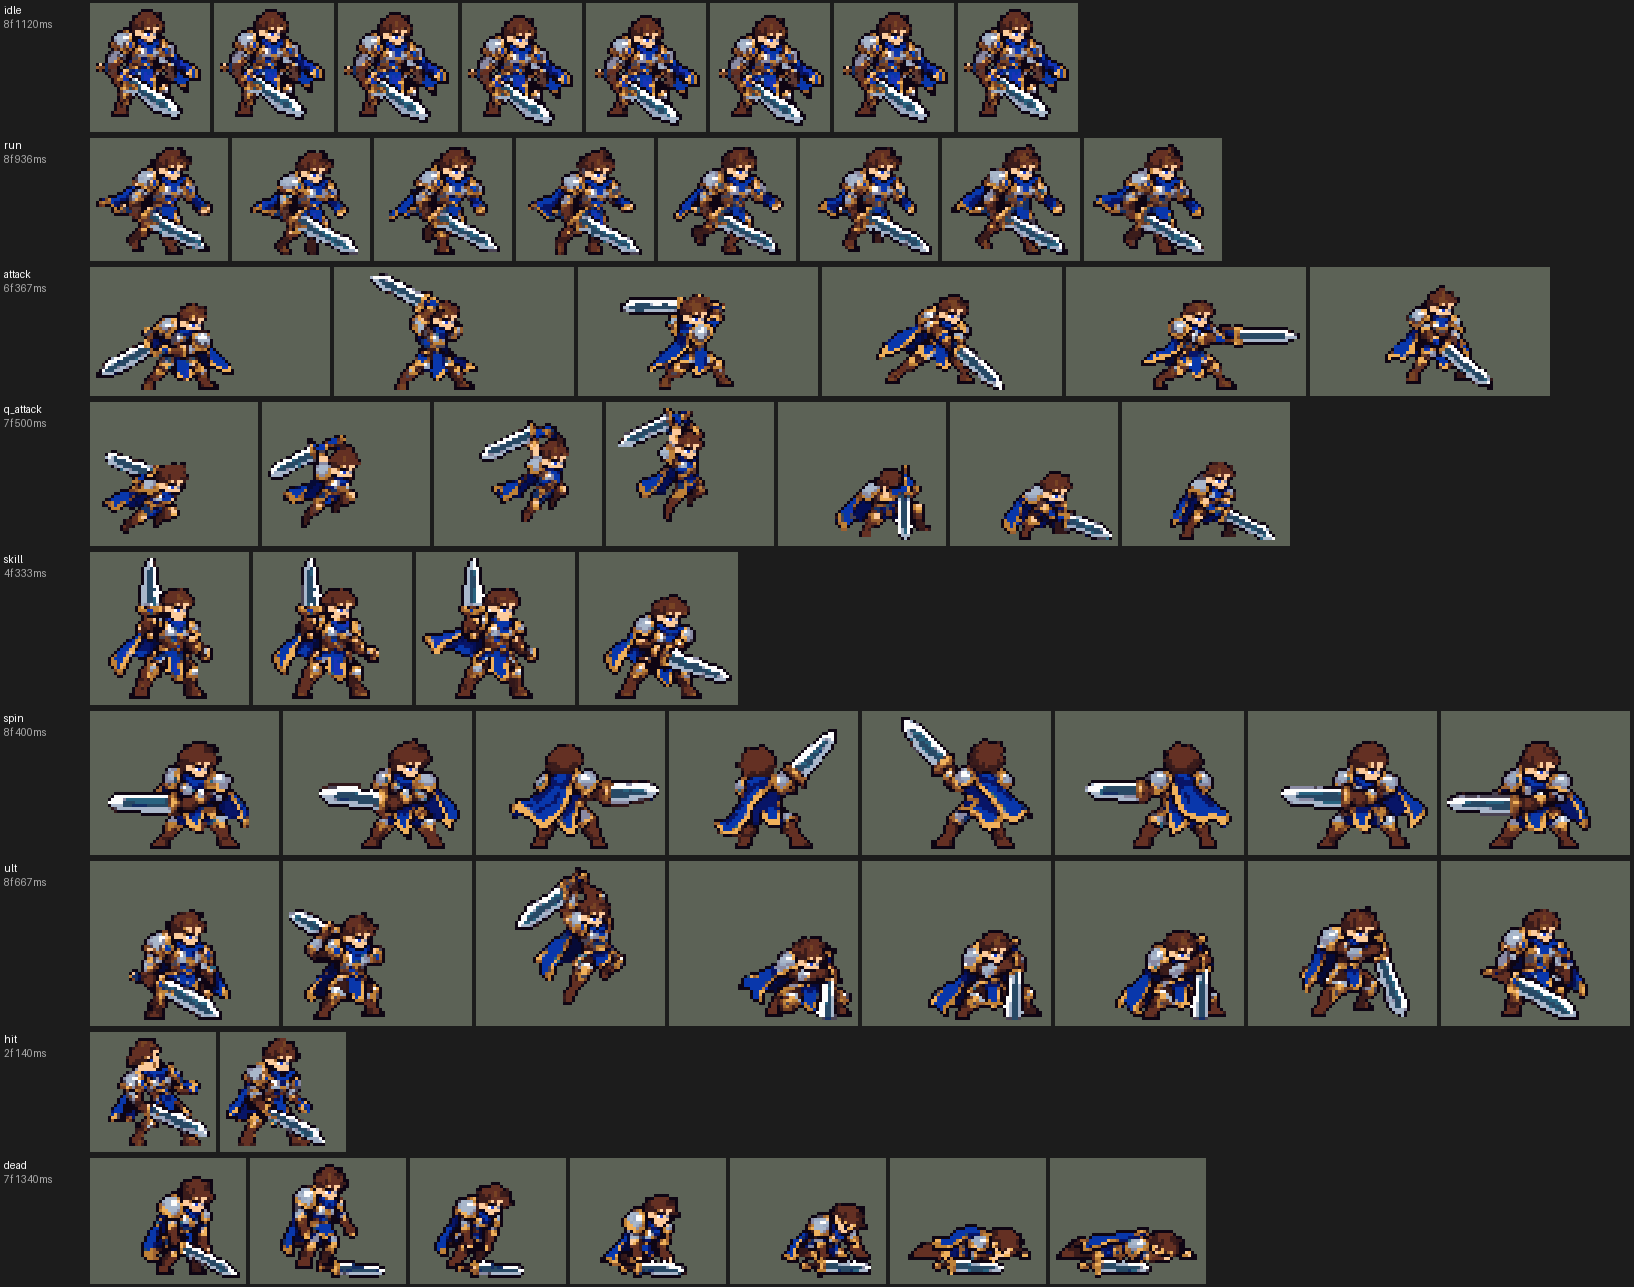
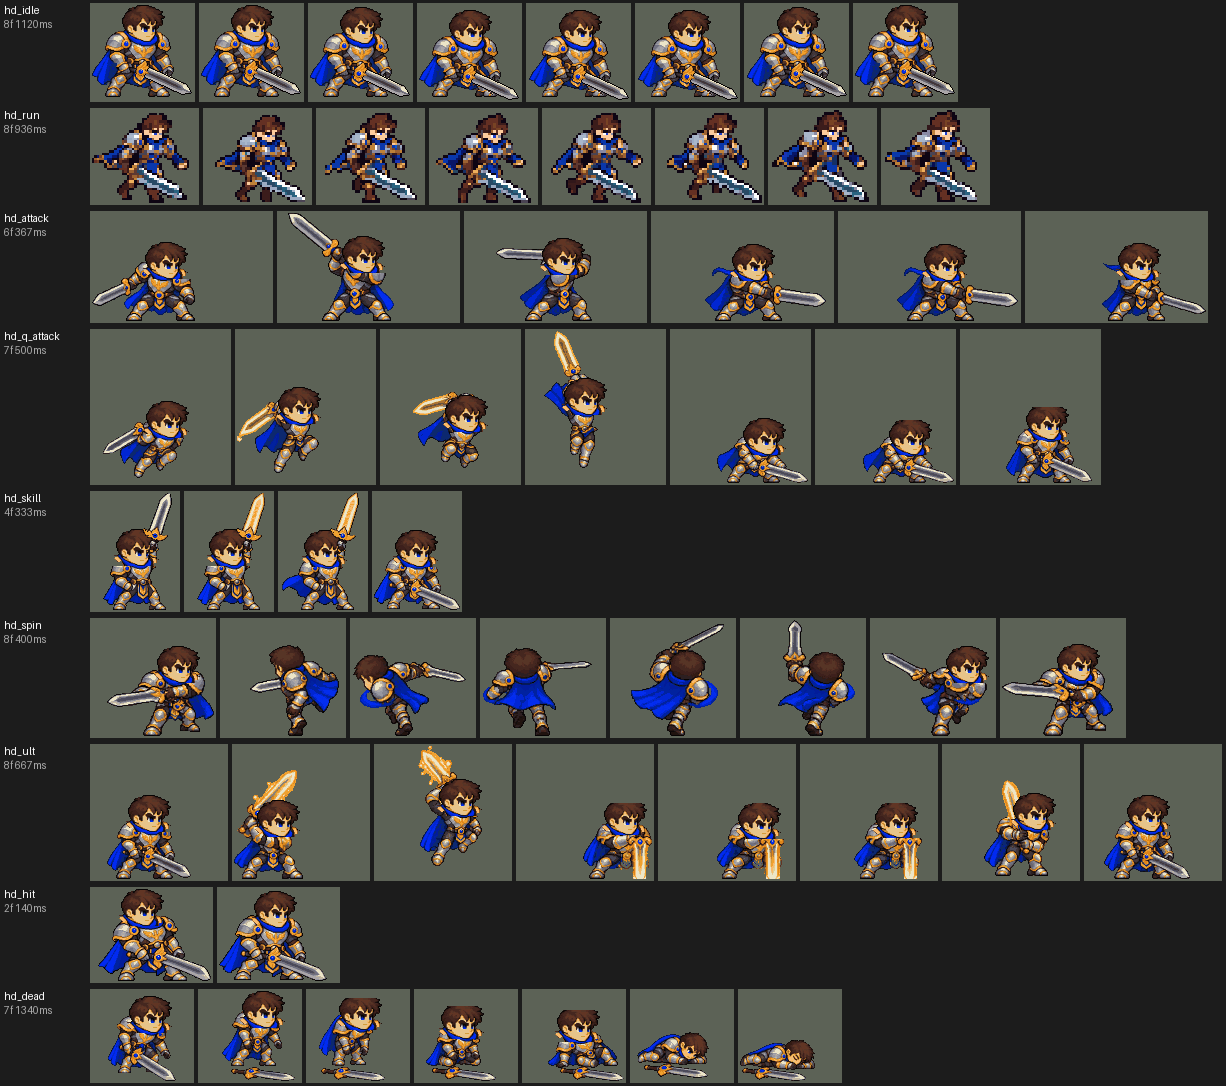
Garen's actions at PPU 2.5 from his original pictures, the idle's face in every frame (the user: 「盖伦游戏里还是老模型 ... 你参考亚索那些怎么弄的啊」; picked the idle's face everywhere, the slashes and bursts out with the gold blade kept, the run from the idle)
tools/art/ppu_garen.py --actions: attack, q_attack, skill, spin, ult, hit and dead read from assets/source/garen's pictures one to a frame, each strip at its own scale (the median of 2.5 x the 1x frame's height over the picture's), the idle's palette, sparkles and glints dropped, the feet (the lowest rows of what is not blade) where the 1x frame's are - the soles within 0.1 px of the 1x frames'. The idle's head (hair, face, eyes, not the scarf) pasted where each picture's face is (import_ppu_strips.paste_head searched round its skin), not on the spin seen from behind (frames 2-6) or the death lying down (6-7). The slash's arc across attack picture 4 and the burst over q_attack picture 5's legs leave nothing to keep - those frames take the next picture; ult 4-6's ground burst round the planted blade is cleared; the skill's raised blade, guard and fist go back over the pasted head (held beside it). Frames grown alike at both ends where the figure needs it (garen_<tag>.json). The run is still the 1x run scaled (next: from the idle). preview_garen.py draws him from his dense frames (preview_dense; Anim takes frames), the showcase and frame sheet regenerated.

Checks: ppu_hd --check garen clean, cargo test 7/7.

diff --git a/tools/art/ppu_garen.py b/tools/art/ppu_garen.py
@@ -3,6 +3,7 @@
 
     python tools/art/ppu_garen.py                  # write assets/source/ppu/garen_<tag>.png (+ .json sizes)
     python tools/art/ppu_garen.py --review DIR     # garen_hd_<tag>.png (8x) and garen_hd_<tag>.gif
+    python tools/art/ppu_garen.py --actions        # the actions too (attack, q_attack, skill, spin, ult, hit, dead)
 
 The user, 2026-10-12: 「这个分支用来重建老英雄的 用PPU重建 先是盖伦 但是所有模型图生成就不拜托codex了 我们自己处理 因为也有原稿
 对比了」, then 「按原稿走 密度2.5」. The originals are the GPT strips in assets/source/garen (garen_<tag>.png, round 3/4,
@@ -12,6 +13,17 @@ The 1x sheet (Codex's step-2 redraw) is a different drawing; only its frame size
 an hd frame is round(2.5 x its 1x frame) round the same centre, the soles on the 1x soles' row. --write puts the idle
 in (its 1x frames into the sheet, replacing the Codex idle: import_native.py --hero garen would bring that back - run
 this again after it); the actions not redrawn yet are the 1x frames scaled (ppu_hd.py).
+
+actions (the user, 2026-10-12: 「盖伦游戏里还是老模型 ... 你参考亚索那些怎么弄的啊」, then the idle's face in every
+frame, the slashes and bursts out, the glowing gold blade kept): each strip's pictures one to a frame, read at the
+strip's own scale (the median of 2.5 x the 1x frame's height over the picture's: every strip was drawn at its own size),
+the palette of the idle, its sparkles and glints (parts under 2% of the figure) dropped, the feet - the lowest rows of
+what is not blade - where the 1x frame's feet are; then the idle's head (hair, face, eyes; not the scarf) pasted where
+the picture's face is (import_ppu_strips.paste_head searched round its skin), except where no face shows (the spin
+seen from behind, the death lying down). The slash's white arc across attack picture 4 and the burst over q_attack
+picture 5's legs leave nothing to keep, so those frames take the next picture; ult pictures 4-6's ground burst round
+the planted blade is cleared (the blade kept); the skill's raised blade, guard and fist go back over the pasted head
+(held beside it). The run is the 1x run scaled until it is made from the idle.
 
 idle: the first picture of garen_idle.png is the design; the loop is that design breathing (tools/art/idle_breathe.py,
 the 1x recipe: the body above the shins down 0-2 rows and a column forward, the head a frame late), the sword lifted out
@@ -170,6 +182,213 @@ def design():
     return out, pal
 
 
+COUNTS = {"attack": 6, "q_attack": 7, "skill": 4, "spin": 8, "ult": 8, "hit": 2, "dead": 7}
+# frame -> the picture it takes instead of its own (0-based): the slash's white arc across attack picture 4's legs and
+# the burst over q_attack picture 5's legs leave nothing to keep - the next picture's pose
+SAME = {"attack": {3: 4}, "q_attack": {4: 5}}
+# the ground burst round the planted blade in ult pictures 4-6: a box (picture px from the frame's top-left) whose
+# glow goes, the blade's columns spared
+BURST = {"ult": {i: {"box": (100, 143, 216, 196), "blade": (133, 167)} for i in (3, 4, 5)}}
+# frames without the idle's head (0-based): the spin seen from behind, the death lying down
+NO_HEAD = {"spin": {1, 2, 3, 4, 5}, "dead": {5, 6}}
+# frames whose raised blade is held beside the head (its fist and guard in front of it): back over the pasted head
+FRONT = {"skill": {0, 1, 2}}
+
+
+def lum(a):
+    return 0.299 * a[..., 0] + 0.587 * a[..., 1] + 0.114 * a[..., 2]
+
+
+def steel(a):
+    """The blade's light greys and whites (a glowing blade's pale gold too)."""
+    r, g, b = (a[..., c].astype(int) for c in range(3))
+    sat = np.maximum(np.maximum(r, g), b) - np.minimum(np.minimum(r, g), b)
+    return (a[..., 3] > 0) & (lum(a) > 120) & ((sat < 45) | ((r > 220) & (g > 200)))
+
+
+def feet(a):
+    """(feet's middle x, soles' bottom edge y) of a frame: the lowest three rows of what is not blade."""
+    op = (a[..., 3] > 0) & ~steel(a)
+    sole = int(np.nonzero(op.any(1))[0].max())
+    xs = np.nonzero(op[max(0, sole - 2):sole + 1].any(0))[0]
+    return (xs.min() + xs.max() + 1) / 2.0, sole + 1.0
+
+
+def head_of(design):
+    """The dense idle's head: hair, skin, the eyes and the outline above the scarf (rows 3-42, columns 33-79 of the
+    142 x 138 idle frame), the largest 4-connected part -> (head mask, face mask: its skin and eyes)."""
+    a = design.astype(int)
+    r, g, b = a[..., 0], a[..., 1], a[..., 2]
+    op = a[..., 3] > 0
+    h, w = op.shape
+    box = np.zeros((h, w), bool)
+    box[3:43, 33:80] = True
+    rows = np.arange(h)[:, None] * np.ones((1, w), int)
+    skin = (r > 190) & (g > 140) & (g < 220) & (b > 100) & (b < 195) & (r > b + 35)
+    hair = (r > 45) & (r < 175) & (g > 25) & (g < 120) & (b < 90) & (r > g + 10) & (r > b + 20)
+    eye = (((b > 140) & (r < 110)) | ((lum(a) > 200) & (np.abs(r - b) < 40))) & (rows <= 33)
+    m = op & box & (skin | hair | (lum(a) < 60) | eye)
+    lab, n = ndimage.label(m)
+    head = lab == (int(np.argmax(ndimage.sum(m, lab, range(1, n + 1)))) + 1)
+    head = ndimage.binary_fill_holes(head) & op & box
+    return head, head & (skin | eye)
+
+
+def glow(a):
+    """A burst's colours in a picture (float RGBA): bright yellow to white."""
+    r, g, b = a[..., 0] * 255, a[..., 1] * 255, a[..., 2] * 255
+    return (a[..., 3] > 0.05) & (0.299 * r + 0.587 * g + 0.114 * b > 150) & (r > 200) & (g > 140)
+
+
+def unburst(fr, spec):
+    """The burst's glow in spec's box cleared from the picture frame (the blade's columns kept) -> pixels cleared."""
+    x0, y0, x1, y1 = spec["box"]
+    b0, b1 = spec["blade"]
+    m = np.zeros(fr.a.shape[:2], bool)
+    m[y0:y1, x0:x1] = True
+    m[:, b0:b1] = False
+    gone = m & glow(fr.a)
+    fr.a = fr.a.copy()
+    fr.a[gone] = 0
+    return int(gone.sum())
+
+
+def drop_bits(a, keep=0.02):
+    """Parts apart from the figure under `keep` of its largest part (sparkles, glints): clear."""
+    op = a[..., 3] > 0
+    lab, n = ndimage.label(op, structure=np.ones((3, 3)))
+    if n <= 1:
+        return a
+    sizes = ndimage.sum(op, lab, range(1, n + 1))
+    out = a.copy()
+    for k, z in enumerate(sizes, 1):
+        if z < keep * sizes.max():
+            out[lab == k] = 0
+    return out
+
+
+def skin_mid(f):
+    """The middle of the largest skin-coloured part in the frame's upper 70% (the face) -> (x, y) or None."""
+    a = f.astype(int)
+    r, g, b = a[..., 0], a[..., 1], a[..., 2]
+    skin = (a[..., 3] > 0) & (r > 190) & (g > 140) & (g < 220) & (b > 100) & (b < 195) & (r > b + 35)
+    ys = np.nonzero((a[..., 3] > 0).any(1))[0]
+    skin[ys.min() + int(0.7 * (ys.max() - ys.min())):] = False
+    lab, n = ndimage.label(skin)
+    if not n:
+        return None
+    yy, xx = np.nonzero(lab == int(np.argmax(ndimage.sum(skin, lab, range(1, n + 1)))) + 1)
+    return float(xx.mean()), float(yy.mean())
+
+
+def prop(f):
+    """A blade held up with its guard and fist: steel greys and whites and gold with their dark outline, the parts of
+    them reaching above the figure's top fifth -> mask."""
+    a = f.astype(int)
+    r, g, b = a[..., 0], a[..., 1], a[..., 2]
+    op = a[..., 3] > 0
+    sat = np.maximum(np.maximum(r, g), b) - np.minimum(np.minimum(r, g), b)
+    metal = op & (((sat < 45) & (lum(a) > 90)) | ((r > 190) & (g > 110) & (b < 100) & (lum(a) > 140)))
+    m = metal | (op & (lum(a) < 60) & ndimage.binary_dilation(metal, structure=np.ones((3, 3))))
+    lab, n = ndimage.label(m, structure=np.ones((3, 3)))
+    ys = np.nonzero(op.any(1))[0]
+    top = ys.min() + 0.2 * (ys.max() - ys.min())
+    out = np.zeros(op.shape, bool)
+    for v in range(1, n + 1):
+        z = lab == v
+        if np.nonzero(z)[0].min() < top:
+            out |= z
+    return out
+
+
+def on_feet(a, one, margin=3):
+    """A read picture on a dense frame round(PPU x the 1x frame `one`), its feet where the 1x frame's are (PPU x round
+    the centre); the frame grown alike at both ends until it fits with `margin` clear."""
+    fx, fy = feet(a)
+    ox, oy = feet(one)
+    h1, w1 = one.shape[:2]
+    W, H = ppu_hd.hd_size(w1, h1, PPU)
+    ys, xs = np.nonzero(a[..., 3])
+    while True:
+        dx = int(round((ox - w1 / 2) * PPU + W / 2 - fx))
+        dy = int(round((oy - h1 / 2) * PPU + H / 2 - fy))
+        if (ys.min() + dy >= margin and xs.min() + dx >= margin and ys.max() + dy < H - margin
+                and xs.max() + dx < W - margin):
+            out = np.zeros((H, W, 4), np.uint8)
+            out[ys + dy, xs + dx] = a[ys, xs]
+            return out
+        W, H = W + 2, H + 2
+
+
+def actions(pal, design):
+    """{tag: [dense frame]} for COUNTS' tags from the pictures (see the module's notes), with a line per tag."""
+    import import_ppu_strips as IPS
+    sheet = ppu_hd.read_sheet(STEM)
+    head, face = head_of(design)
+    fy, fx = np.nonzero(face)
+    face_mid = (float(fx.mean()), float(fy.mean()))
+    out = {}
+    for tag, n in COUNTS.items():
+        a = np.asarray(Image.open(os.path.join(PICS, f"garen_{tag}.png")).convert("RGBA")).astype(np.float32) / 255
+        pics = G.split_strip(a, n)
+        for i, spec in BURST.get(tag, {}).items():
+            unburst(pics[i], spec)
+        frames = [pics[SAME.get(tag, {}).get(i, i)] for i in range(n)]
+        ones = [f for f, _ in sheet[tag]]
+        if len(ones) != n:
+            sys.exit(f"{tag}: {n} pictures, {len(ones)} 1x frames")
+        ratios = []
+        for fr, one in zip(frames, ones):
+            x0, y0, x1, y1 = fr.bbox(0.5)
+            ys = np.nonzero((one[..., 3] > 0).any(1))[0]
+            ratios.append(PPU * (ys.max() - ys.min() + 1) / (y1 - y0))
+        s = float(np.median(ratios))
+        done, notes = [], []
+        for i, (fr, one) in enumerate(zip(frames, ones)):
+            pic, _, _, _ = regrid(fr, s)
+            f = on_feet(drop_bits(G.drop_lonely(pal.apply(pic))), one)
+            mid = skin_mid(f)
+            if i in NO_HEAD.get(tag, ()) or mid is None:
+                notes.append("-")
+            else:
+                before = f.copy()
+                guess = (int(round(mid[0] - face_mid[0])), int(round(mid[1] - face_mid[1])))
+                res = IPS.paste_head(f, design, head, guess, 10, match=face, ring=False, hair_above=False)
+                if i in FRONT.get(tag, ()):
+                    m = prop(before)
+                    ox, oy = res["at"]
+                    cy, cx = np.nonzero(face)
+                    ok = (cy + oy >= 0) & (cy + oy < f.shape[0]) & (cx + ox >= 0) & (cx + ox < f.shape[1])
+                    m[cy[ok] + oy, cx[ok] + ox] = False          # never over the pasted face itself
+                    f[m] = before[m]
+                notes.append(f"{res['match']}%")
+            done.append(f)
+        out[tag] = done
+        print(f"{tag}: scale {s:.4f}, head match " + " ".join(notes))
+    return out
+
+
+def write_strip(tag, frames, ones):
+    """A tag's dense frames as ppu_hd.py's drawn strip: assets/source/ppu/garen_<tag>.png (left to right, 1 px apart,
+    top-aligned) and garen_<tag>.json with the sizes when a frame is grown beyond round(PPU x its 1x frame)."""
+    want = [ppu_hd.hd_size(o.shape[1], o.shape[0], PPU) for o in ones]
+    sizes = [(f.shape[1], f.shape[0]) for f in frames]
+    H = max(h for _, h in sizes)
+    strip = np.zeros((H, sum(w + 1 for w, _ in sizes) - 1, 4), np.uint8)
+    x = 0
+    for f in frames:
+        strip[:f.shape[0], x:x + f.shape[1]] = f
+        x += f.shape[1] + 1
+    Image.fromarray(strip).save(os.path.join(OUT, f"garen_{tag}.png"))
+    side = os.path.join(OUT, f"garen_{tag}.json")
+    if sizes != want:
+        with open(side, "w", encoding="utf-8") as fh:
+            json.dump({"sizes": [list(v) for v in sizes]}, fh)
+    elif os.path.isfile(side):
+        os.remove(side)
+    return sum(1 for a, b in zip(sizes, want) if a != b)
+
+
 def frame_1x(tag, i=0):
     return ppu_hd.read_sheet(STEM)[tag][i][0]
 
@@ -311,6 +530,9 @@ def main():
     ap.add_argument("--write", action="store_true",
                     help="the idle into league_garen's sheet (1x) and assets/source/ppu/garen_idle.png (hd); then run "
                          "tools/art/ppu_hd.py --hero garen")
+    ap.add_argument("--actions", action="store_true",
+                    help="the other actions' dense strips from their pictures (assets/source/ppu/garen_<tag>.png); then "
+                         "run tools/art/ppu_hd.py --hero garen")
     args = ap.parse_args()
     pair, pal = design()
     sole_dy, feet_dx, size = standing("idle")
@@ -323,6 +545,15 @@ def main():
           "blade", n, "| 1x:", rows1["dip_cost"], rows1["lean_cost"], rows1["neck"] is not None, "blade", n1)
     if args.write:
         write_idle(idle_1x, idle_hd)
+    if args.actions or args.review:
+        made = actions(pal, idle_hd[0])
+        sheet = ppu_hd.read_sheet(STEM)
+        for tag, frames in made.items():
+            if args.actions:
+                grown = write_strip(tag, frames, [f for f, _ in sheet[tag]])
+                print(f"assets/source/ppu/garen_{tag}.png: {len(frames)} frames, {grown} grown")
+            if args.review:
+                gif(frames, os.path.join(args.review, f"garen_hd_{tag}.gif"), 4, 100)
     if args.review:
         os.makedirs(args.review, exist_ok=True)
         Image.fromarray(hd).resize((hd.shape[1] * 6, hd.shape[0] * 6), Image.NEAREST).save(

diff --git a/tools/art/preview_garen.py b/tools/art/preview_garen.py
@@ -4,7 +4,7 @@ sheets load).
 
     python tools/art/preview_garen.py [--out docs/preview]
 
-  league_garen_frames.png    every animation, frame by frame, 3x on the arena colour
+  league_garen_frames.png    every animation's dense frames (hd_, PPU 2.5: as league.dll shows them)
   league_garen_effects.png   every effect animation, 3x
   league_garen_showcase.gif  a scripted fight against a mirrored Garen, timed like the kit
                              (walk in, attack, Q + W, empowered hit, E, R, death), 3x
@@ -72,8 +72,8 @@ class Anim:
     """A playing animation: frames + durations (ms), optional loop, position (moving at vx
     px/ms), mirror, z."""
 
-    def __init__(self, sp, tag, t0, x, y, loop=False, until=None, flip=False, z=0, vx=0.0):
-        self.fr = frames_of(sp, tag)
+    def __init__(self, sp, tag, t0, x, y, loop=False, until=None, flip=False, z=0, vx=0.0, fr=None):
+        self.fr = fr if fr is not None else frames_of(sp, tag)
         self.t0, self.x, self.y, self.loop, self.flip, self.z, self.vx = t0, x, y, loop, flip, z, vx
         total = sum(ms for _, ms in self.fr)
         self.until = until if until is not None else (None if loop else t0 + total)
@@ -100,6 +100,9 @@ def tick(n):
 
 
 def showcase(out, z=3, step=40):
+    # here, not at the top: preview_dense imports this module (Garen is drawn from his dense frames, PPU 2.5, as the
+    # battlefield draws him; so is the Garen he fights)
+    from preview_dense import dense, put
     garen = load(CHAMP)
     fx = {k: load(v) for k, v in FX.items()}
     W, H = 160, 120
@@ -109,17 +112,18 @@ def showcase(out, z=3, step=40):
 
     def g(tag, dur=None, loop=False):
         nonlocal t
-        a = Anim(garen, tag, t, gx, gy, loop=loop, until=(t + dur) if dur else None)
+        a = Anim(garen, tag, t, gx, gy, loop=loop, until=(t + dur) if dur else None, fr=dense(garen, tag, "garen", z))
         body.append(a)
         t = a.until
 
     def hit_target(at, sprite=None, tag=None):
-        flinch.append(Anim(garen, "hit", at, tx, gy, flip=True))
+        flinch.append(Anim(garen, "hit", at, tx, gy, flip=True, fr=dense(garen, "hit", "garen", z)))
         if sprite:
             effects.append(Anim(fx[sprite], tag, at, tx, gy, z=1))
 
     walk = 1200                                          # walk in: move_speed 1000 ~ 1 px a tick
-    body.append(Anim(garen, "run", t, gx - 72, gy, loop=True, until=t + walk, vx=72 / walk))
+    body.append(Anim(garen, "run", t, gx - 72, gy, loop=True, until=t + walk, vx=72 / walk,
+                     fr=dense(garen, "run", "garen", z)))
     t += walk
     g("idle", 500, loop=True)
     for _ in range(2):                                   # basic attacks: 22 ticks, hit at 13
@@ -135,14 +139,15 @@ def showcase(out, z=3, step=40):
     effects.append(decisive)
     g("idle", tick(30), loop=True)
     start = t                                            # empowered attack
-    body.append(Anim(garen, "attack", start, gx, gy, until=start + tick(3)))
-    body.append(Anim(garen, "q_attack", start + tick(3), gx, gy))
+    body.append(Anim(garen, "attack", start, gx, gy, until=start + tick(3), fr=dense(garen, "attack", "garen", z)))
+    body.append(Anim(garen, "q_attack", start + tick(3), gx, gy, fr=dense(garen, "q_attack", "garen", z)))
     decisive.until = start + tick(3)
     hit_target(start + tick(16), "league_garen_hits", "q")
     t = start + tick(33)
     g("idle", tick(40), loop=True)
     start = t                                            # E: 3 s spin, 7 pulses
-    body.append(Anim(garen, "spin", start, gx, gy, loop=True, until=start + tick(182)))
+    body.append(Anim(garen, "spin", start, gx, gy, loop=True, until=start + tick(182),
+                     fr=dense(garen, "spin", "garen", z)))
     effects.append(Anim(fx["league_garen_spin"], "loop", start + tick(2), gx, gy, loop=True,
                         until=start + tick(182), z=1))
     for p in (0, 26, 51, 77, 103, 129, 154):
@@ -156,8 +161,8 @@ def showcase(out, z=3, step=40):
     g("idle", 1400, loop=True)
     end = t
 
-    idle = frames_of(garen, "idle")
-    dead = frames_of(garen, "dead")
+    idle = dense(garen, "idle", "garen", z)
+    dead = dense(garen, "dead", "garen", z)
     mirror = {}
 
     def flip(f):
@@ -182,11 +187,11 @@ def showcase(out, z=3, step=40):
         return flip(pick(idle, tt % sum(ms for _, ms in idle)))
 
     def place(img, f, x, y):
-        img.alpha_composite(f, (x - f.width // 2, y - f.height // 2))
+        put(img, f, x, y, z)
 
     frames, tt = [], 0.0
     while tt < end:
-        img = Image.new("RGBA", (W, H), ARENA)
+        img = Image.new("RGBA", (W * z, H * z), ARENA)
         for a in effects:
             f = a.frame(tt) if a.z < 0 else None
             if f is not None:
@@ -201,7 +206,7 @@ def showcase(out, z=3, step=40):
             f = a.frame(tt) if a.z >= 0 else None
             if f is not None:
                 place(img, f, a.x, a.y)
-        frames.append(img.resize((W * z, H * z), Image.NEAREST).convert("RGB"))
+        frames.append(img.convert("RGB"))
         tt += step
     # one palette for the whole clip, sampled from every 8th frame
     sample = frames[::8]
@@ -219,8 +224,9 @@ def main():
     ap.add_argument("--out", default=os.path.join(ROOT, "docs", "preview"))
     args = ap.parse_args()
     os.makedirs(T.long_path(args.out), exist_ok=True)
+    from preview_dense import dense_rows
     g = load(CHAMP)
-    size = contact([(g, t["name"], t["name"]) for t in g.tags], os.path.join(args.out, "league_garen_frames.png"))
+    size = contact(dense_rows(g), os.path.join(args.out, "league_garen_frames.png"), z=1)
     print("frames", size)
     rows = []
     for name, path in FX.items():
